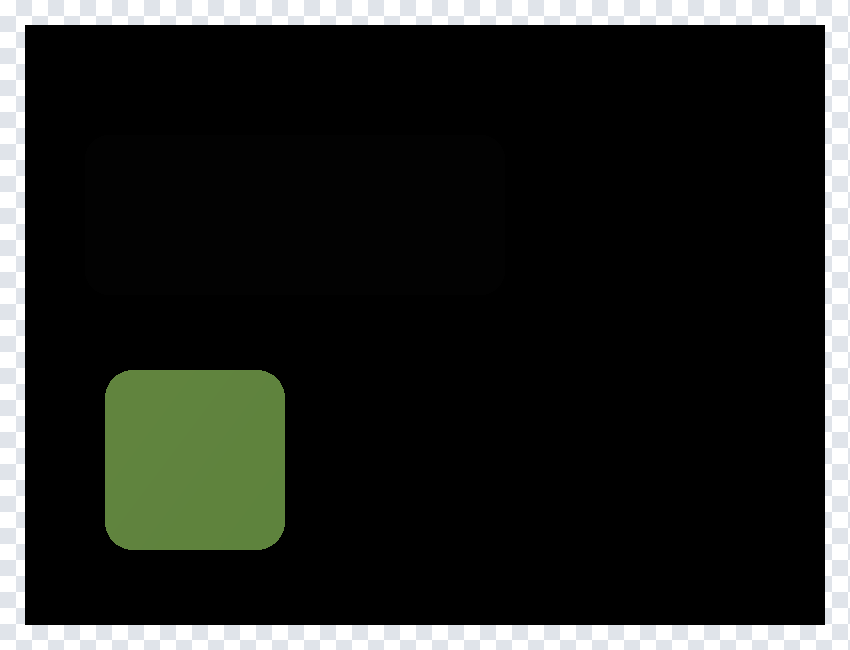
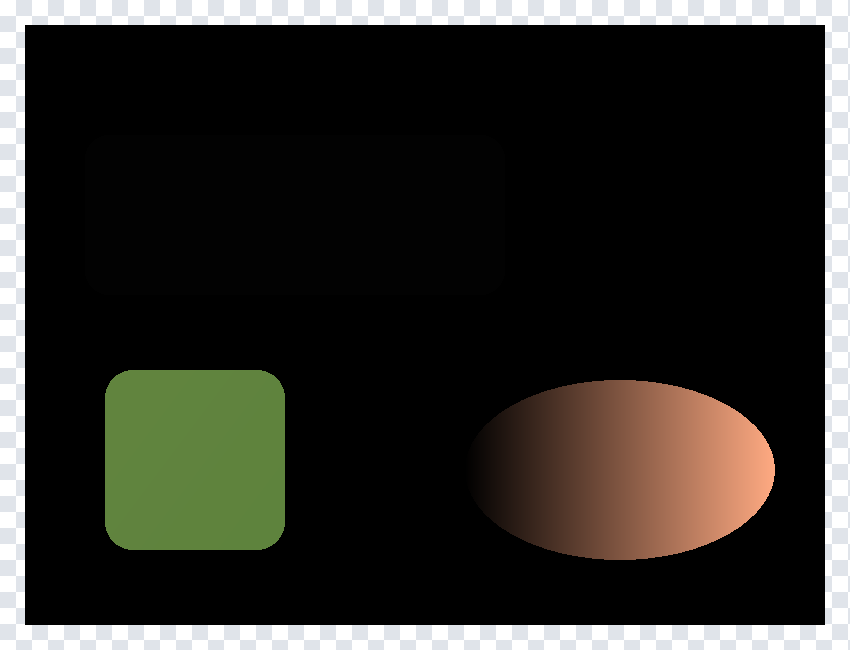
Show gradient-to-solid fill differences in comparison examples
Add an ellipse shared by both inputs, changing its teal-to-cream gradient to a solid fill. Regenerate the diagnostic gallery so raw differences and the heatmap show progressively larger errors across the shape.

Changed region(s): [[0.5812, 0.5846, 0.9176, 0.8615]]

diff --git a/documentation/docfx/guides/testing/generate-images.cs b/documentation/docfx/guides/testing/generate-images.cs
@@ -106,6 +106,15 @@ SKImage RenderScene(bool actual)
         paint.Color = new SKColor(145, 112, 188);
         canvas.DrawRoundRect(80, 345, 180, 180, 28, 28, paint);
     }
+    var ellipse = SKRect.Create(440, 355, 310, 180);
+    var solidFill = new SKColor(0, 75, 95);
+    using var fillGradient = SKShader.CreateLinearGradient(
+        new SKPoint(ellipse.Left, ellipse.MidY), new SKPoint(ellipse.Right, ellipse.MidY),
+        new[] { solidFill, new SKColor(255, 245, 225) },
+        SKShaderTileMode.Clamp);
+    paint.Color = solidFill;
+    paint.Shader = actual ? null : fillGradient;
+    canvas.DrawOval(ellipse, paint);
     return SKImage.FromBitmap(bitmap)
         ?? throw new InvalidOperationException("Unable to snapshot the example scene.");
 }

diff --git a/documentation/docfx/guides/testing/image-comparison.md b/documentation/docfx/guides/testing/image-comparison.md
@@ -35,7 +35,7 @@ dotnet add package SkiaSharp.Testing
 | ![Expected rendering.](images/expected-preview.png) | ![Actual rendering with color, opacity and shape changes.](images/actual-preview.png) |
 
 The panel has a small color change, the circle has a transparency change,
-and the square is new.
+the square is new, and the ellipse's gradient has been replaced with a solid fill.
 
 ```csharp
 using System.IO;
@@ -53,7 +53,7 @@ if (!result.IsMatch)
 }
 ```
 
-![Exact RGBA comparison highlights all three changed regions over the actual image.](images/comparison-exact.png)
+![Exact RGBA comparison highlights the changed regions over the actual image.](images/comparison-exact.png)
 
 Defaults are exact RGBA after normalization to unpremultiplied 8-bit pixels.
 The default diagnostic blends red highlights over the actual image, preserving
@@ -80,11 +80,11 @@ using var png = difference.Encode(SKEncodedImageFormat.Png, 100);
 File.WriteAllBytes("difference-tolerant.png", png.ToArray());
 ```
 
-![The blue panel is tolerated, alpha is excluded, and the violet square still mismatches.](images/comparison-tolerant.png)
+![The panel is tolerated and alpha is excluded; the square and ellipse still mismatch.](images/comparison-tolerant.png)
 
 The panel's two-level RGB change is now amber-tinted. Alpha is disabled, so the
-circle is not highlighted; the square still mismatches. Generate the diagnostic
-with the same options as the comparison.
+circle is not highlighted; the square and ellipse still mismatch. Generate the
+diagnostic with the same options as the comparison.
 
 `null` disables a channel; zero requires an exact match. `Absolute` uses byte
 levels, and tolerance `Percent` uses percentage points of the full 255 range.
@@ -186,7 +186,7 @@ and the sample denominator. Mask alpha is an alpha allowance, not coverage.
 
 `IgnoreMask` removes entire pixels: black compares, any nonzero decoded RGB
 excludes, independently of mask alpha. The panel contributes no errors, bounds,
-maxima or metric samples. The added square remains a mismatch in both examples.
+maxima or metric samples. The square and ellipse remain mismatches in both examples.
 
 `TotalPixels` is the full image area; fractions and budgets use
 `ComparedPixelCount`. At least one pixel must remain compared. Inputs and masks
